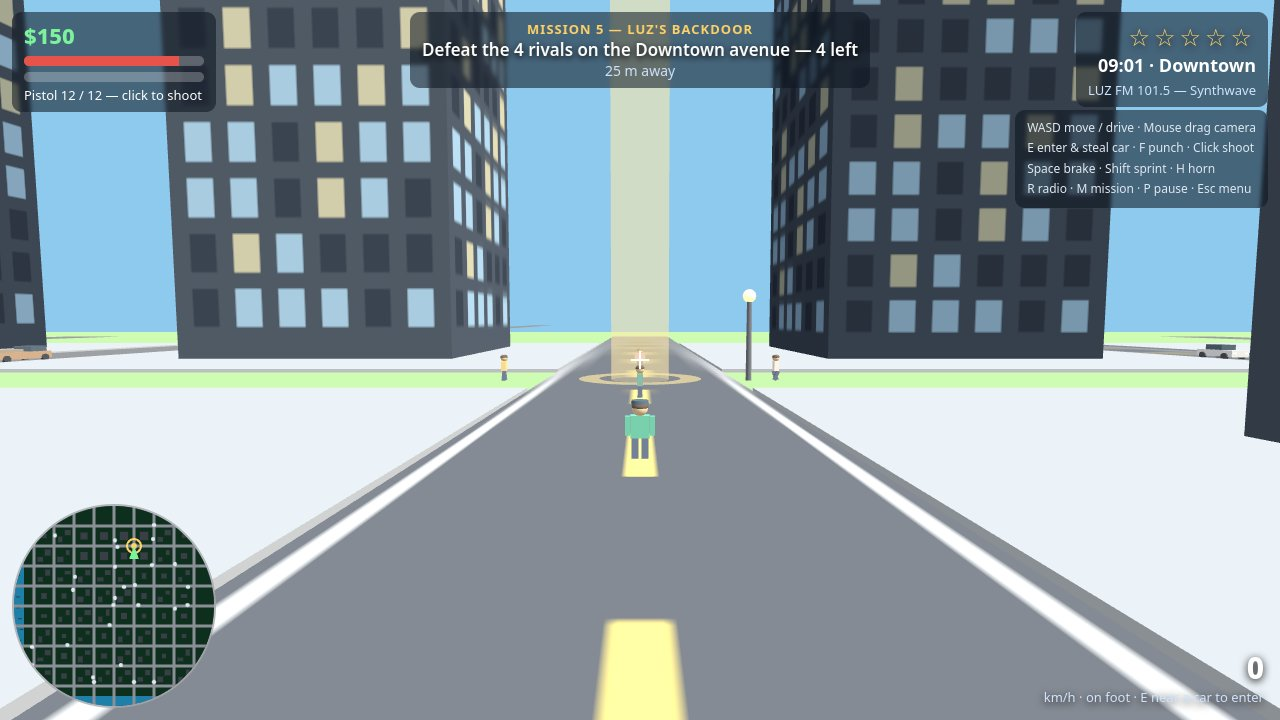
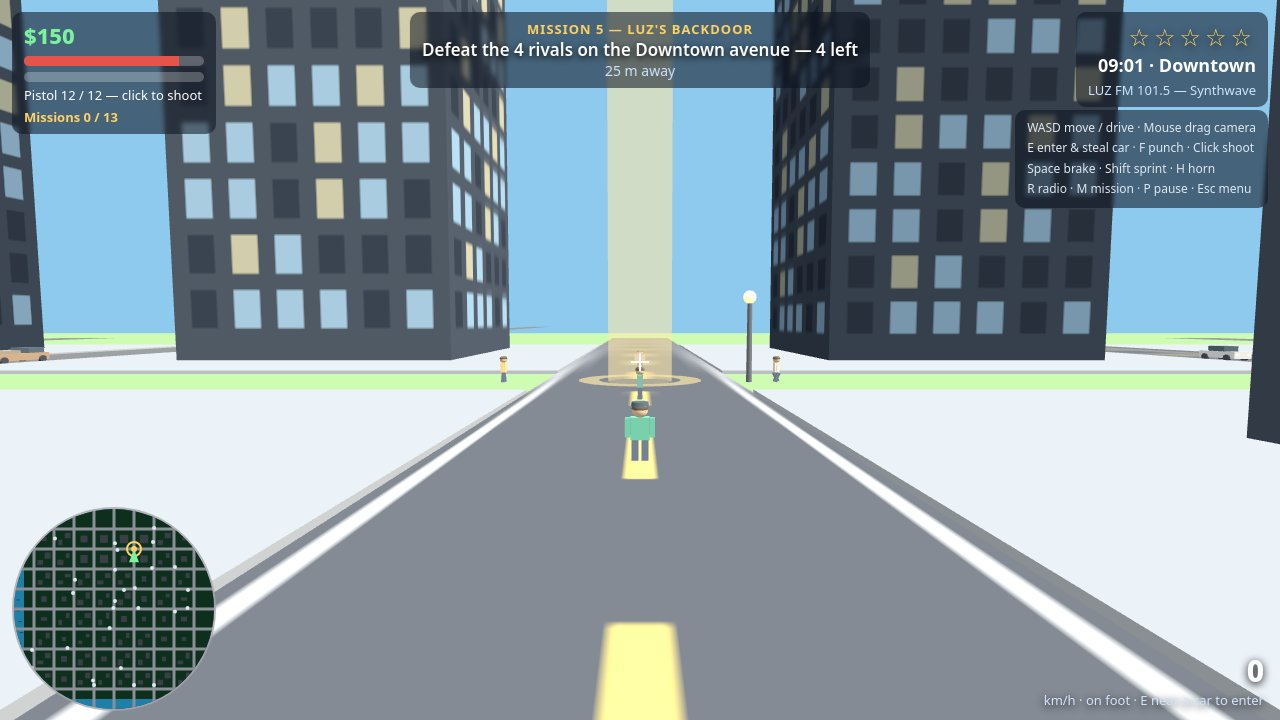
Porto Luz v2 — rebuild in a sealed recording: 13 story missions, HUD mission counter, fresh screenshots
Rebuilt every game file in-session under the new sealed recording.
Adds a 13th story mission, 'The Last Delivery' ($3500), and a live
'Missions X / 13' counter in the HUD. All four screenshots retaken as
real headless-Chromium renders of the rebuilt game.

diff --git a/game/src/missions.js b/game/src/missions.js
@@ -1,7 +1,7 @@
-// The story: twelve missions for Mara Voss, plus taxi fares and courier runs that
-// keep the cash flowing between them. Each objective is one of a small set of kinds
-// (goto, pickup, steal, tail, defend, escape, race, cooldown), so the engine stays
-// simple while the missions themselves stay varied.
+// The story: thirteen missions for Mara Voss, plus taxi fares and courier runs
+// that keep the cash flowing between them. Each objective is one of a small set
+// of kinds (goto, pickup, steal, tail, defend, escape, race, cooldown), so the
+// engine stays simple while the missions themselves stay varied.
 import { CITY, MISSIONS, SAFEHOUSES } from './config.js';
 import { createRandom, groundDistance } from './random.js';
 import { createCarMesh } from './vehicles.js';
@@ -132,7 +132,7 @@ export function createMissions(game) {
   function startNextMission() {
     const next = game.save.missionsDone;
     if (next >= MISSIONS.length) {
-      game.hud.toast('All twelve missions complete — you are a Porto Luz legend.');
+      game.hud.toast('All thirteen missions complete — you are a Porto Luz legend.');
       return false;
     }
     return startMission(next);
@@ -187,13 +187,7 @@ export function createMissions(game) {
     if (!obj) return;
     stepTimer += dt;
     if (obj.type === 'goto' || obj.type === 'pickup' || obj.type === 'deliver' || obj.type === 'escape') {
-      if (obj.type === 'escape' && game.police.stars < 2 && stepTimer > 2) {
-        // The heat faded before the player arrived: still counts as reaching it.
-      }
       if (groundDistance(pos.x, pos.z, obj.x, obj.z) < (obj.radius || 8)) {
-        if (obj.type === 'escape' && game.police.stars < 2) {
-          // Reached the safehouse cold: the chase part is done, move on.
-        }
         advanceStep();
       }
     } else if (obj.type === 'steal') {

diff --git a/main.ts b/main.ts
@@ -1,14 +1,14 @@
 // PORTO LUZ — a working gta6-01 entry (Node 22, standard library only): the game is
 // this directory's game/ folder, plain static files a desktop browser loads offline
-// (game/index.html and its ES modules, no library and no network request), and the
-// program hands it in. It copies game/ and screenshots/ from beside this file to
-// /output and writes /output/dossier.json, the summary the judge reads, with the
-// vendored make.fun library. Porto Luz is an original 3D open-world crime game:
-// Mara Voss drives and walks a sun-soaked coastal city, steals cars, outruns the
-// Porto Luz police (and their helicopter at three stars), and runs twelve story
-// missions for Dario Marin's crew, with traffic, pedestrians, shops, safehouses,
-// a radio and saves. Put 3 or 4 PNG or JPEG screenshots in screenshots/ (the first
-// by name is the cover) and run it.
+// (game/index.html and its ES modules, plus the vendored Three.js library, and no
+// network request), and the program hands it in. It copies game/ and screenshots/
+// from beside this file to /output and writes /output/dossier.json, the summary
+// the judge reads, with the vendored make.fun library. Porto Luz is an original
+// 3D open-world crime game: Mara Voss drives and walks a sun-soaked coastal city,
+// steals cars, outruns the Porto Luz police (and their helicopter at three stars),
+// and runs thirteen story missions for Dario Marin's crew, with traffic,
+// pedestrians, shops, safehouses, a radio and saves. Put 3 or 4 PNG or JPEG
+// screenshots in screenshots/ (the first by name is the cover) and run it.
 //
 // Serve it locally with `node serve.ts`, then open http://localhost:8080.
 // Outside the grader's container, MAKEFUN_OUTPUT_DIR stands in for /output:

diff --git a/game/src/city.js b/game/src/city.js
@@ -1,6 +1,7 @@
-// Porto Luz itself: the ground, the road grid, the five districts, the beach and the
-// harbour, plus the collision boxes the rest of the game drives and walks against.
-// Everything is built from one seeded RNG, so the same seed builds the same city.
+// Porto Luz itself: the ground, the road grid, the five districts, the beach and
+// the harbour, plus the collision boxes the rest of the game drives and walks
+// against. Everything is built from one seeded RNG, so the same seed always
+// builds the same city.
 import { CITY, PALETTE } from './config.js';
 import { createRandom } from './random.js';
 
@@ -59,7 +60,7 @@ export function isOnRoad(x, z) {
 }
 
 /**
- * Build the whole city into `scene` and return its collision boxes, road lines and
+ * Build the whole city into `scene` and return its collision boxes, clouds and
  * a few named places (garage, hospital, spawn) the missions and the player use.
  */
 export function createCity(scene, seed) {
@@ -113,7 +114,6 @@ export function createCity(scene, seed) {
 
   // Roads: one long plane per avenue and street, with a repeating centre line.
   const roadTex = roadTexture();
-  const roadMat = new THREE.MeshLambertMaterial({ map: roadTex });
   for (const a of CITY.avenues) {
     const tex = roadTex.clone();
     tex.needsUpdate = true;
@@ -283,7 +283,7 @@ export function createCity(scene, seed) {
   };
 }
 
-/** Push a circle (x, z, radius) out of every building box it overlaps. Returns true if pushed. */
+/** Push a circle (x, z, radius) out of every building box it overlaps. Returns the new point. */
 export function resolveBuildingCollisions(x, z, radius, colliders) {
   let pushed = false;
   for (const c of colliders) {

diff --git a/game/src/config.js b/game/src/config.js
@@ -70,7 +70,7 @@ export const CREW = {
 };
 
 /**
- * The 12 story missions. Objective kinds:
+ * The 13 story missions. Objective kinds:
  *  goto    — reach the marker (radius m)
  *  pickup  — reach the marker, then the next objective becomes the delivery
  *  tail    — stay 12–45 m behind the target car for `seconds`
@@ -146,6 +146,16 @@ export const MISSIONS = [
       ], text: 'Win the Grand Prix — 6 checkpoints' },
       { type: 'escape', x: -210, z: 210, radius: 9, text: 'Outrun the police to the safehouse' },
       { type: 'cooldown', text: 'Lose the wanted level — you are a legend now' },
+    ] },
+  { id: 13, title: 'The Last Delivery', giver: 'Luz Ferreira', payout: 3500,
+    brief: 'One last job before the crew goes quiet: Luz\'s master drive has to reach the Hills lookout in 100 seconds, and the whole city is awake. No mistakes.',
+    objectives: [
+      { type: 'pickup', x: 0, z: 0, radius: 7, text: 'Pick up the master drive in Old Town' },
+      { type: 'race', timeLimit: 100, checkpoints: [
+        { x: 140, z: 140 }, { x: 280, z: 70 }, { x: 280, z: -70 },
+      ], text: 'Race the master drive to the Hills — 3 checkpoints' },
+      { type: 'escape', x: 210, z: 210, radius: 9, text: 'Shake the heat and reach the Marina safehouse' },
+      { type: 'cooldown', text: 'Lose the wanted level — the crew is free' },
     ] },
 ];
 

diff --git a/game/src/vehicles.js b/game/src/vehicles.js
@@ -1,6 +1,7 @@
-// Cars: how one is built from boxes, how it drives, and the traffic that fills the city.
-// A car is a THREE.Group with a body, cabin, four wheels, headlights and taillights; the
-// physics is arcade — speed, steering and grip — so it feels good with a keyboard.
+// Cars: how one is built from boxes, how it drives, and the traffic that fills
+// the city. A car is a THREE.Group with a body, cabin, four wheels, headlights
+// and taillights; the physics is arcade — speed, steering and grip — so it feels
+// good with a keyboard.
 import { CAR, CITY } from './config.js';
 import { clamp, createRandom, groundDistance, wrapAngle } from './random.js';
 
@@ -122,7 +123,6 @@ function spawnTrafficCar(mesh, rng) {
  */
 export function driveCar(car, input, dt, colliders) {
   const tune = CAR[car.kind] || CAR.sedan;
-  const forward = new THREE.Vector3(Math.sin(car.angle), 0, Math.cos(car.angle));
   if (input.forward) car.speed += tune.accel * dt;
   if (input.back) car.speed -= tune.accel * 0.7 * dt;
   if (input.brake) {

diff --git a/game/src/hud.js b/game/src/hud.js
@@ -1,6 +1,6 @@
-// The HUD: cash, health, wanted stars, the mission objective, the speedometer, the
-// minimap, prompts, banners and the shop. All DOM — the 3D canvas stays clean.
-import { CITY } from './config.js';
+// The HUD: cash, health, wanted stars, the mission objective, the speedometer,
+// the minimap, prompts, banners and the shop. All DOM — the 3D canvas stays clean.
+import { CITY, MISSIONS } from './config.js';
 
 function $(id) { return document.getElementById(id); }
 
@@ -75,6 +75,7 @@ export function createHud() {
       $('ammo').textContent = G.player.armed
         ? `Pistol ${G.player.ammo} / 12 — click to shoot`
         : 'Unarmed — F to punch · find the pistol at the safehouse';
+      $('missionsdone').textContent = `Missions ${G.save.missionsDone} / ${MISSIONS.length}`;
       const stars = '★'.repeat(G.police.stars) + '☆'.repeat(5 - G.police.stars);
       $('stars').textContent = stars;
       const mins = Math.floor(G.clockMinutes % 1440);

diff --git a/game/index.html b/game/index.html
@@ -58,6 +58,7 @@
     <div class="bar" id="healthbar"><div id="healthfill" style="width:100%"></div></div>
     <div class="bar"><div id="armourfill" style="width:0%"></div></div>
     <div id="ammo" style="font-size:13px;margin-top:4px">Pistol 12 / 12</div>
+    <div id="missionsdone" style="font-size:13px;margin-top:4px;color:#ffd166;font-weight:700">Missions 0 / 13</div>
   </div>
   <div id="topright" class="panel">
     <div id="stars">☆☆☆☆☆</div>
@@ -81,7 +82,7 @@
 <div id="title" class="overlay">
   <h1>PORTO LUZ</h1>
   <p>Sun-soaked streets. Fast cars. One driver with something to prove.<br>
-  <b>Mara Voss</b> is back in Porto Luz — and Dario Marin has twelve jobs for her.</p>
+  <b>Mara Voss</b> is back in Porto Luz — and Dario Marin has thirteen jobs for her.</p>
   <div>
     <button id="btn-continue">Continue</button>
     <button id="btn-new">New Game</button>

diff --git a/game/src/player.js b/game/src/player.js
@@ -45,9 +45,9 @@ export function createPlayer(scene, spawn) {
 }
 
 /**
- * Step the player on foot: WASD moves relative to the camera, Shift sprints, F punches
- * the nearest person in front, mouse click shoots when armed. Returns events for the
- * main loop: { punched, shot, hitPed }.
+ * Step the player on foot: WASD moves relative to the camera, Shift sprints, F
+ * punches the nearest person in front, mouse click shoots when armed. Returns
+ * events for the main loop: { punched, shot, hitPed }.
  */
 export function stepPlayerOnFoot(player, input, cameraAngle, dt, colliders, peds, onCrime) {
   const events = { punched: null, shot: false, hitPed: null };

diff --git a/game/src/police.js b/game/src/police.js
@@ -1,5 +1,5 @@
-// The wanted system: stars, police cars that chase and ram, and the helicopter that
-// arrives at three stars. Heat rises with crimes and falls when the player hides.
+// The wanted system: stars, police cars that chase and ram, and the helicopter
+// that arrives at three stars. Heat rises with crimes and falls when the player hides.
 import { WANTED } from './config.js';
 import { clamp, createRandom, groundDistance, wrapAngle } from './random.js';
 import { createCarMesh, driveCar } from './vehicles.js';

diff --git a/game/src/input.js b/game/src/input.js
@@ -1,5 +1,6 @@
-// Keyboard and mouse: WASD to move/drive, mouse drag to orbit the camera, wheel to zoom.
-// Every key the game uses is listed here, so the help screen and the HUD never drift apart.
+// Keyboard and mouse: WASD to move/drive, mouse drag to orbit the camera, wheel
+// to zoom. Every key the game uses is listed here, so the help screen and the HUD
+// never drift apart.
 export const ACTION_CONFIRM = 'confirm';
 export const ACTION_PAUSE = 'pause';
 export const ACTION_INTERACT = 'interact';

diff --git a/game/src/pedestrians.js b/game/src/pedestrians.js
@@ -1,5 +1,6 @@
-// Pedestrians: the people of Porto Luz. They stroll the sidewalks, cross at corners,
-// and run when a crime happens near them. A few are attackers during defend missions.
+// Pedestrians: the people of Porto Luz. They stroll the sidewalks, cross at
+// corners, and run when a crime happens near them. A few are attackers during
+// defend missions.
 import { CITY } from './config.js';
 import { createRandom, groundDistance } from './random.js';
 

diff --git a/game/src/random.js b/game/src/random.js
@@ -1,5 +1,5 @@
-// A small seeded RNG (mulberry32) so the same seed always builds the same Porto Luz:
-// the city, the traffic and the screenshot scenes are all reproducible from one number.
+// Seeded randomness for Porto Luz: mulberry32, so one seed always builds the
+// same city, the same traffic and the same screenshot scenes.
 export function createRandom(seed) {
   let a = seed >>> 0;
   function next() {
